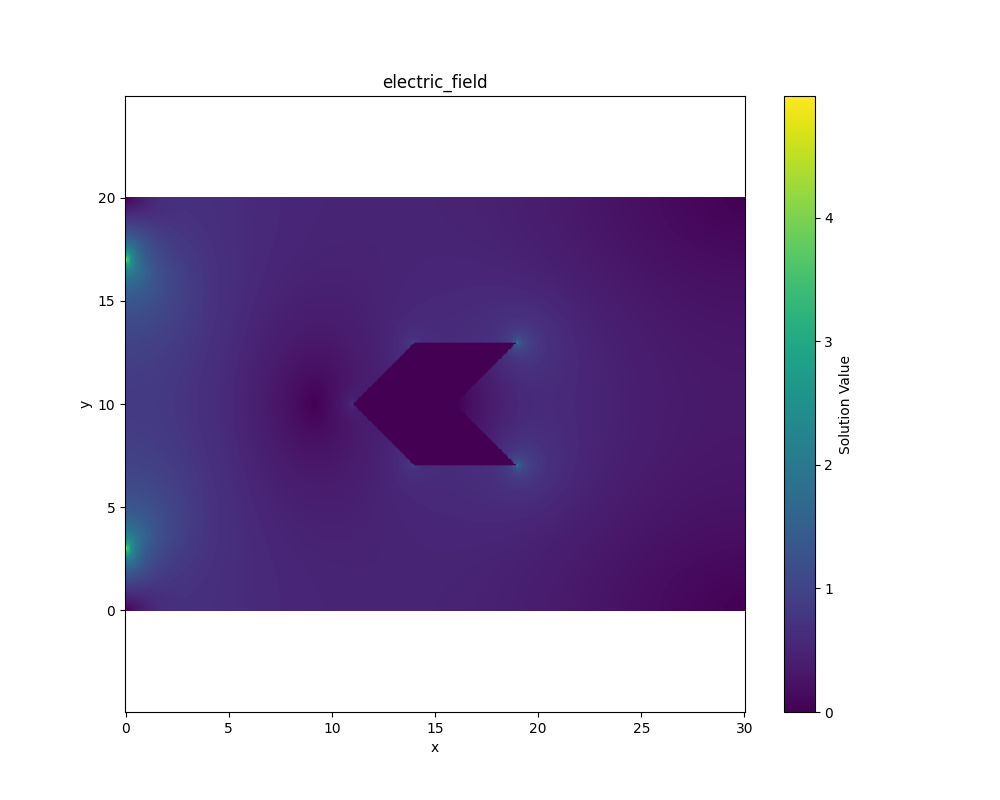
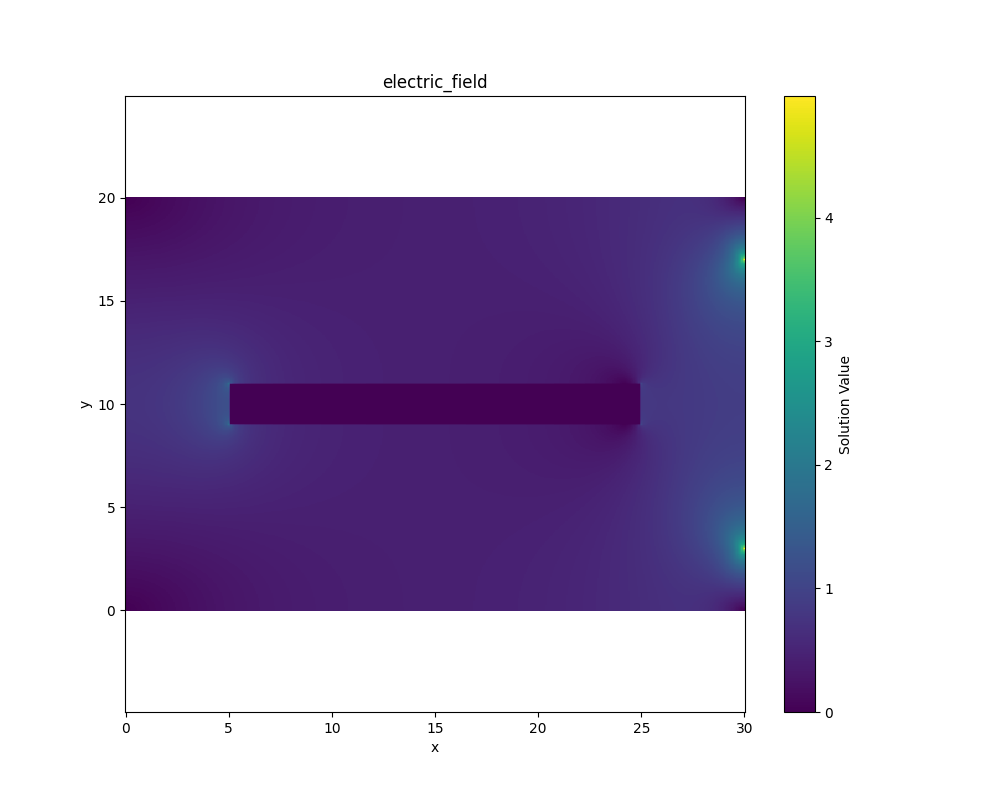
✨ feat(server): `SimulationService` is set up

diff --git a/server/src/libs/computations/main.py b/server/src/libs/computations/main.py
@@ -14,6 +14,7 @@ from libs.computations.laplace import (
 )
 from libs.shapes.arrow import Arrow
 from libs.shapes.core.shape import Shape
+from libs.shapes.rect import Rect
 from libs.shapes.ring import Ring
 
 
@@ -57,11 +58,11 @@ def apply_electrodes_potential(x: float, y: float, shape: Shape) -> float:
     return 0 + (x / 100) * 47.62
 
 
-def _plot_solution(self: LaplaceSolver, u: np.ndarray, title: str):
+def _plot_solution(self: LaplaceSolver, u: np.ndarray, title: str) -> None:
     """Create a heat map visualization of the solution."""
     plt.figure(figsize=(10, 8))
 
-    # Create grid coordinates
+    # Create grid coordinatesc
     x = np.linspace(0, self.partition.Lx, self.partition.Nx)
     y = np.linspace(0, self.partition.Ly, self.partition.Ny)
     X, Y = np.meshgrid(x, y)
@@ -100,14 +101,18 @@ if __name__ == "__main__":
 
     # Internal conditions
     arrow = Arrow(WIDTH / 2, HEIGHT / 2, height=6, length=8, angle=math.pi / 4)
-    ring = Ring(WIDTH / 2, HEIGHT / 2, inner_radius=3, outer_radius=6)
+    ring = Ring(WIDTH / 2, HEIGHT / 2, inner_radius=0, outer_radius=6)
+    rect = Rect(WIDTH / 2, HEIGHT / 2, a=20, b=2)
     shape_potential = 7.35
 
-    shape_condition_ring = generate_internal_condition(ring, shape_potential)
-    solver.add_internal_condition(shape_condition_ring)
+    # shape_condition_ring = generate_internal_condition(ring, shape_potential)
+    # solver.add_internal_condition(shape_condition_ring)
 
-    # shape_condition_arrow = generate_internal_condition(arrow, shape_potential)
+    # shape_condition_arrow = generate_internal_condition/(arrow, shape_potential)
     # solver.add_internal_condition(shape_condition_arrow)
+
+    shape_condition_rect = generate_internal_condition(rect, shape_potential)
+    solver.add_internal_condition(shape_condition_rect)
 
     # Boudndary conditions
     solver.add_boundary_condition(
@@ -148,23 +153,23 @@ if __name__ == "__main__":
     print(f"Potential: min={np.min(potential)}, max={np.max(potential)}")
     _plot_solution(solver, potential, title="potential")
 
-    x = np.linspace(0, partition.Lx, partition.Nx)
-    y = np.linspace(0, partition.Ly, partition.Ny)
-    X, Y = np.meshgrid(x, y)
-    elctrode_potential_fn = np.vectorize(apply_electrodes_potential)
-    elctrode_potential = elctrode_potential_fn(X, Y, shape=ring)
-    _plot_solution(solver, elctrode_potential, title="electrode_potential")
+    # x = np.linspace(0, partition.Lx, partition.Nx)
+    # y = np.linspace(0, partition.Ly, partition.Ny)
+    # X, Y = np.meshgrid(x, y)
+    # elctrode_potential_fn = np.vectorize(apply_electrodes_potential)
+    # elctrode_potential = elctrode_potential_fn(X, Y, shape=rect)
+    # _plot_solution(solver, elctrode_potential, title="electrode_potential")
 
-    potential = potential + elctrode_potential
+    # potential = potential + elctrode_potential
 
     electric_field = gradient_magnitude(potential, WIDTH / NX, WIDTH / NY)
     print(f"Electric field: min={np.min(electric_field)}, max={np.max(electric_field)}")
     _plot_solution(solver, np.log1p(electric_field), title="electric_field")
 
-    # Альтернатива: цветные заливки между линиями уровня
-    contour = plt.contour(X, Y, np.log1p(electric_field), levels=20, cmap="viridis")
-    plt.clabel(contour, inline=True, fontsize=8)  # подписи уровней
-    plt.xlabel("X")
-    plt.ylabel("Y")
-    plt.grid(True)
-    plt.show()
+    # # Альтернатива: цветные заливки между линиями уровня
+    # contour = plt.contour(X, Y, np.log1p(electric_field), levels=20, cmap="viridis")
+    # plt.clabel(contour, inline=True, fontsize=8)  # подписи уровней
+    # plt.xlabel("X")
+    # plt.ylabel("Y")
+    # plt.grid(True)
+    # plt.show()

diff --git a/server/src/schemas/simulation.py b/server/src/schemas/simulation.py
@@ -1,6 +1,9 @@
-from typing import Union
+import math
+from typing import List, Union
 
 from pydantic import BaseModel, Field
+
+from libs.shapes.core.enums import ShapeType
 
 
 class SimulationBath(BaseModel):
@@ -26,12 +29,13 @@ class SimulationRingShape(BaseModel):
 class SimulationArrowShape(BaseModel):
     height: float = Field(gt=0, lt=10, examples=[6])
     length: float = Field(gt=0, lt=10, examples=[8])
+    angle: float = Field(gt=0, lt=2 * math.pi, examples=[math.pi / 2])
 
 
 class SimulationConductor(BaseModel):
     x: float = Field(gt=1, lt=50, examples=[20], description="Position along x-axis. Units: [cm]")
     y: float = Field(gt=1, lt=50, examples=[10], description="Position along y-axis. Units: [cm]")
-    shape_type: str  # You might want to replace this with a Literal or Enum for specific shape types
+    shape_type: ShapeType
     shape: Union[SimulationRingShape, SimulationArrowShape]
     potential: float = Field(gt=0, examples=[7.35])
 
@@ -51,4 +55,4 @@ class SimulationRequest(BaseModel):
 
 
 class SimulationResponse(BaseModel):
-    data: int
+    data: List[List[float]]

diff --git a/server/src/libs/computations/laplace.py b/server/src/libs/computations/laplace.py
@@ -17,6 +17,14 @@ class DiscretePlanePartition:
     Ly: float  # Starting value of y
     Ny: int  # Step size along y-axis
 
+    @property
+    def dx(self) -> float:
+        return self.Lx / (self.Nx - 1)
+
+    @property
+    def dy(self) -> float:
+        return self.Ly / (self.Ny - 1)
+
 
 BoundaryCondition1D = Callable[[float], float]  # Accept 1 agrument, since second dimension is fixed
 InternalCondition2D = Callable[[float, float], Tuple[float, bool]]
@@ -112,10 +120,10 @@ class LaplaceSolver:
 
     def solve(self) -> np.ndarray:
         """Solve Laplace's equation with the given boundary and internal conditions."""
-        Ny = self.partition.Ny
         Nx = self.partition.Nx
-        dx = self.partition.Lx / (Nx - 1)
-        dy = self.partition.Ly / (Ny - 1)
+        Ny = self.partition.Ny
+        dx = self.partition.dx
+        dy = self.partition.dy
 
         # Initialize solution array
         u = np.zeros((Ny, Nx))

diff --git a/server/src/libs/computations/simulation.py b/server/src/libs/computations/simulation.py
@@ -36,9 +36,9 @@ class SimulationService:
         internal_condition = self.__setup_internal_condition(shape, data.conductor.potential)
         solver.add_internal_condition(internal_condition)
 
-        answer = solver.solve()
-        # Return
-        return SimulationResponse(data=0)
+        u = solver.solve()
+        answer: List[List[float]] = u.tolist()
+        return SimulationResponse(data=answer)
 
     def __retrieve_shape(self, data: SimulationRequest) -> Shape | None:
         if data.conductor.shape_type == ShapeType.RING and isinstance(data.conductor.shape, SimulationRingShape):
@@ -64,8 +64,8 @@ class SimulationService:
         Ny = 500
         return DiscretePlanePartition(
             data.bath.x_boundary,
-            data.bath.x_boundary,
             Nx,
+            data.bath.y_boundary,
             Ny,
         )
 

diff --git a/server/src/routers/simulation.py b/server/src/routers/simulation.py
@@ -5,7 +5,7 @@ from services.simulation import SimulationService
 simulation_router = APIRouter(prefix="/simulation", tags=["Simulation"])
 
 
-@simulation_router.post("/", response_model=SimulationResponse)
-async def simulate(data: SimulationRequest):
+@simulation_router.post("/")
+async def simulate(data: SimulationRequest) -> SimulationResponse:
     service = SimulationService()
-    return await service.approximate(data)
+    return await service.run(data)

diff --git a/server/src/libs/shapes/rect.py b/server/src/libs/shapes/rect.py
@@ -1,0 +1,14 @@
+from libs.shapes.core.shape import Shape
+
+
+class Rect(Shape):
+    def __init__(self, x: float, y: float, a: float, b: float):
+        super().__init__(x, y)
+        self.a = a
+        self.b = b
+
+    def check_point(self, x, y) -> bool:
+        relative_x = x - self.x
+        relative_y = y - self.y
+
+        return -(self.a / 2) <= relative_x <= (self.a / 2) and -(self.b / 2) <= relative_y <= (self.b / 2)

diff --git a/server/src/libs/shapes/ring.py b/server/src/libs/shapes/ring.py
@@ -11,6 +11,6 @@ class Ring(Shape):
         if self.inner_radius >= self.outer_radius:
             raise ValueError("Inner radius must be less than outer radius")
 
-    def check_point(self, x, y) -> bool:
+    def check_point(self, x: float, y: float) -> bool:
         distance = get_distance(x, y, self.x, self.y)
         return distance >= self.inner_radius and distance <= self.outer_radius

diff --git a/server/src/libs/shapes/core/enums.py b/server/src/libs/shapes/core/enums.py
@@ -1,0 +1,6 @@
+from enum import Enum
+
+
+class ShapeType(str, Enum):
+    RING = "RING"
+    ARROW = "ARROW"
